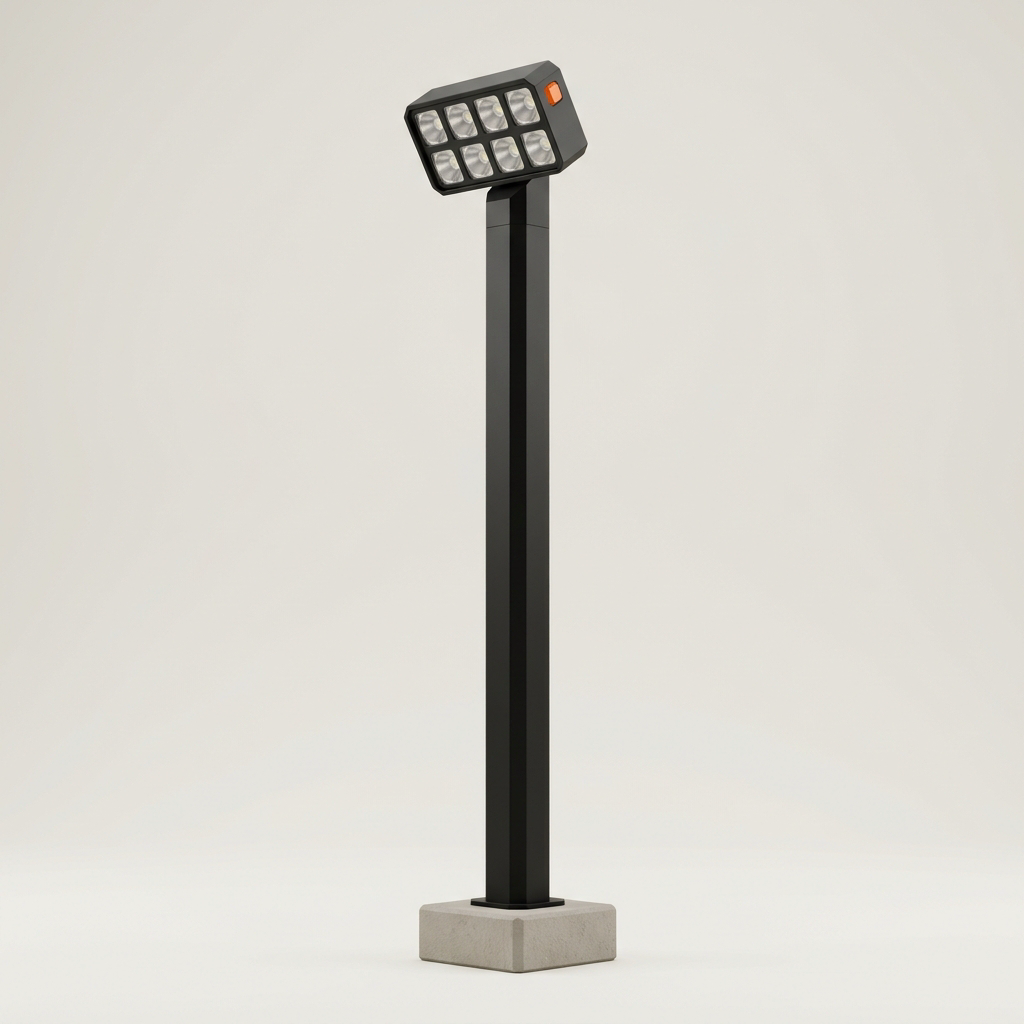
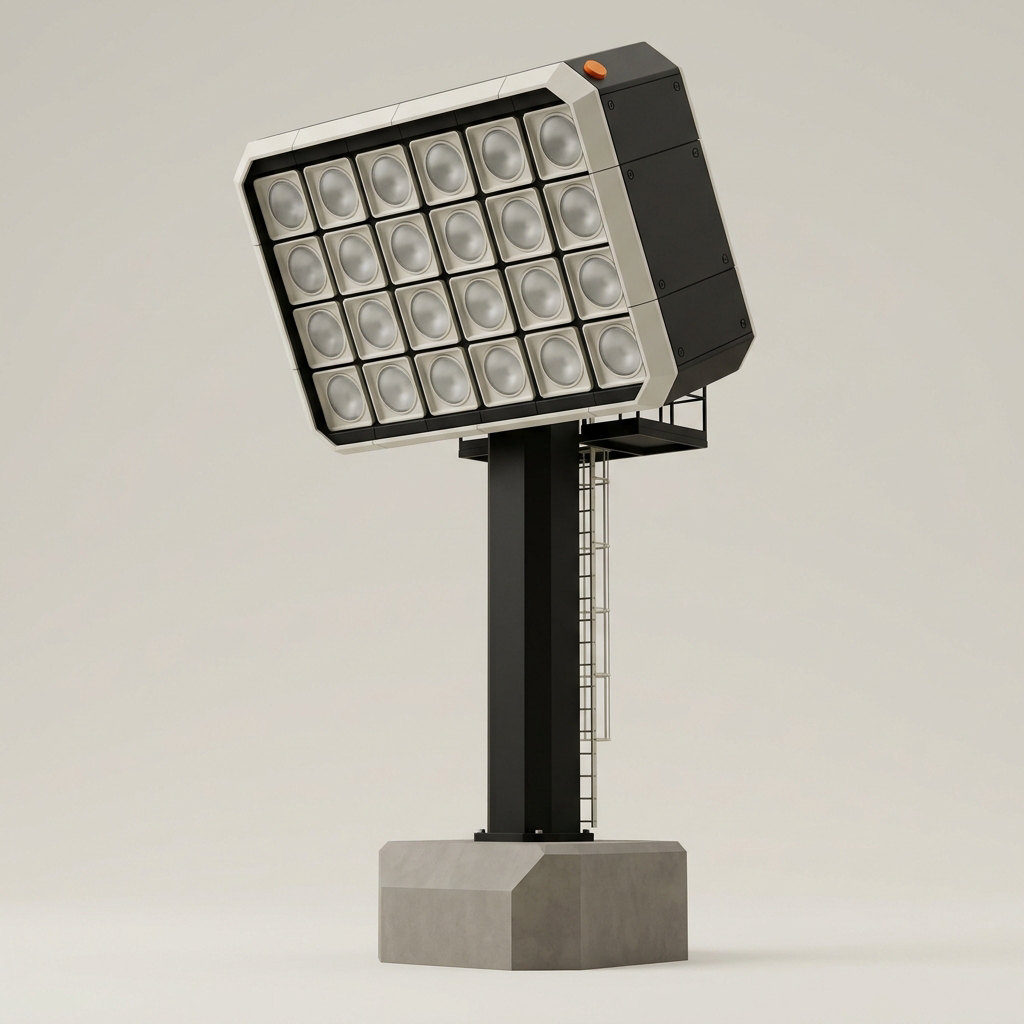
BRAND.md: world concepts approved; floodlight/TecPro/pit wall/stumps redone; garage = cockpit + pit wall

diff --git a/docs/BRAND.md b/docs/BRAND.md
@@ -8,6 +8,7 @@ disagree, the page is what the owner approved; fix this file.
 
 | Date | Decision |
 |---|---|
+| 2026-11-05 | Meshy concept images approved as the design for every world model ("I loved every single concept model, colors, shape, everything"): contact monuments C01–C07 (Email lies horizontal), driver, trophy, Mercury, trees, bushes, grasses, rocks, town blocks, landmark tower, pit building, the four sector buildings (Ahmedabad kept), grandstand, gantry, marshal post, street furniture, boat, pier, goal, podium. Changes asked: floodlight bigger and wider (head wider than the mast), TecPro orange blocks instead of white, pit wall with four seats (one per vehicle), cricket three stumps with orange bails. Concepts: public/models/concepts, list in components/world/meshy/catalog.ts. Garage: options 01 Cockpit and 03 Pit wall screens chosen, to be combined into one; 02 and 04 dropped. |
 | 2026-10-26 | Garage studio and the vehicle in Settings (owner): the garage is a plain studio, the proposal's turntable light (white sky fill over a concrete bounce, a paper-white key from a fixed side) under a paper sky and paper fog, the turntable turning slowly on the dot floor; no sun arc, time of day or weather. The world's own light, time and weather ease in from Enter through the bloom's first seconds (bloom/state.ts `studio`). Settings has a Vehicle section in the garage's own pieces (the four cards with their icons, the livery swatches, the stat bars, components/ui/garageParts.tsx): a card swaps the vehicle in place where the car stands, and "Open the garage" (G, or the Garage tab in the HUD) runs the full garage flow. It replaces the old Settings livery picker. |
 | 2026-10-26 | Garage select is a compact box (owner: "too big ... the normal small size and the box in the background"): at most 1100 x 640, centred, 2 px ink border and the 4 px sticker shadow, the dotted floor and the turntable's surroundings visible all round it; the turntable is framed in the box's left cell. The drive prompt under the spec column is exactly that column's width and shares its left border. Below 768 px wide the box fills the screen inside a 12 px margin and stacks (cell, spec row, cards two by two, a full-width Drive button on touch). On Enter the chrome slides off and the align and bloom run full screen. The boot's background is the same perspective dot floor from the garage camera (bloom/view.ts `drawFloor`), so boot to garage is one picture. |
 | 2026-10-26 | Boot, garage and Bloom are one space (owner): the boot's background is the bloom's dotted paper floor (paper #ebe9e3, a #b9b6ab square in each cell), the garage turntable stands on that same floor in the real world at the car's start spot, and on Enter the align morphs it into the bloom's first frame (the floor rises to just under the vehicle, the plinth sinks as the world blooms). The old boot still image is gone. In the game: G reopens the garage, Esc there goes back to driving. |
